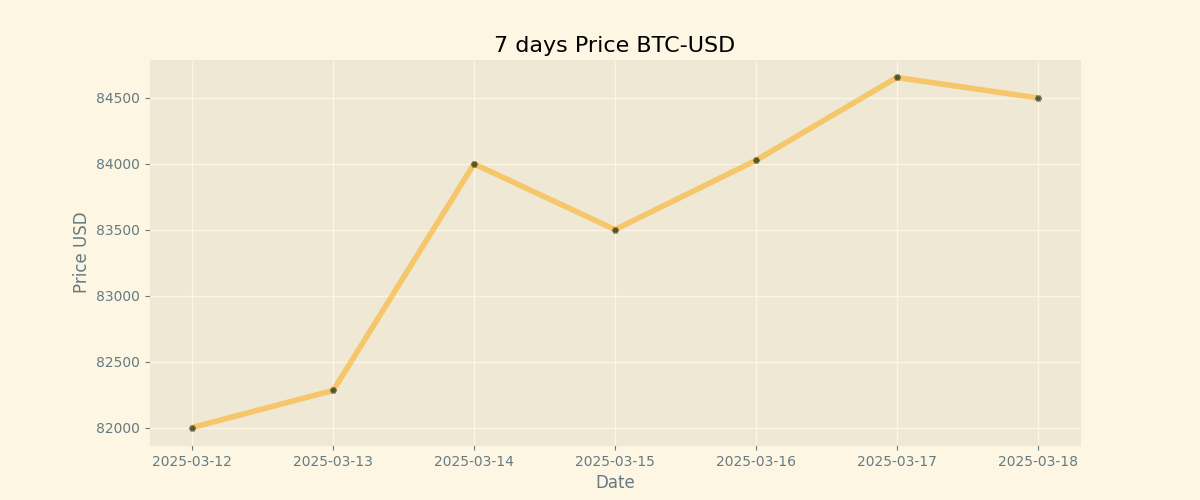
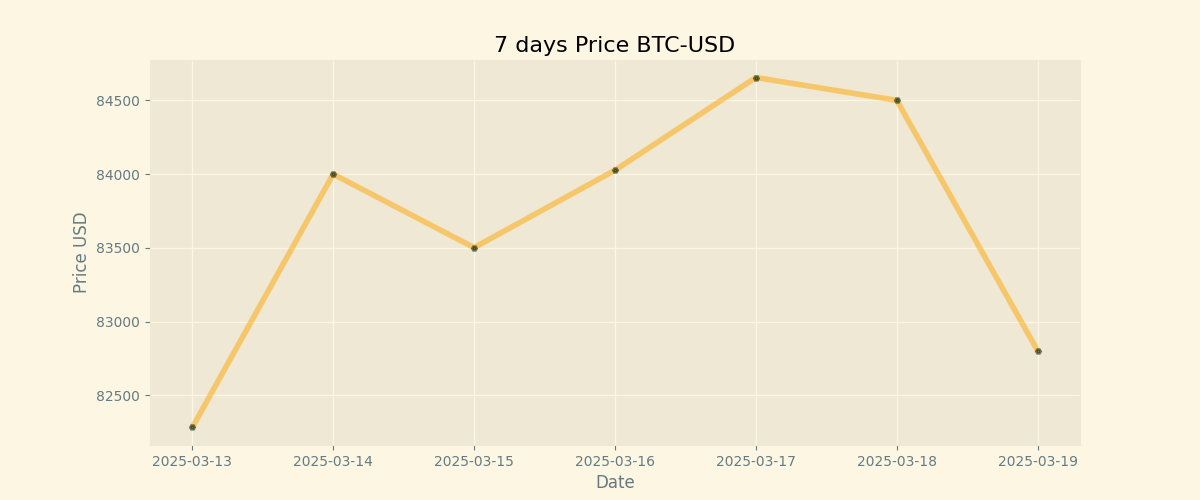
Duty Updates 2025-03-19

diff --git a/README.md b/README.md
@@ -9,7 +9,7 @@
 
 | Currency | Price           |
 | -------- | --------------- |
-| **BTC**  | **$ 84499.0** |
+| **BTC**  | **$ 82801.0** |
 | **ETH**  | **$ 1879.64** |
 
 ## BTC chart
